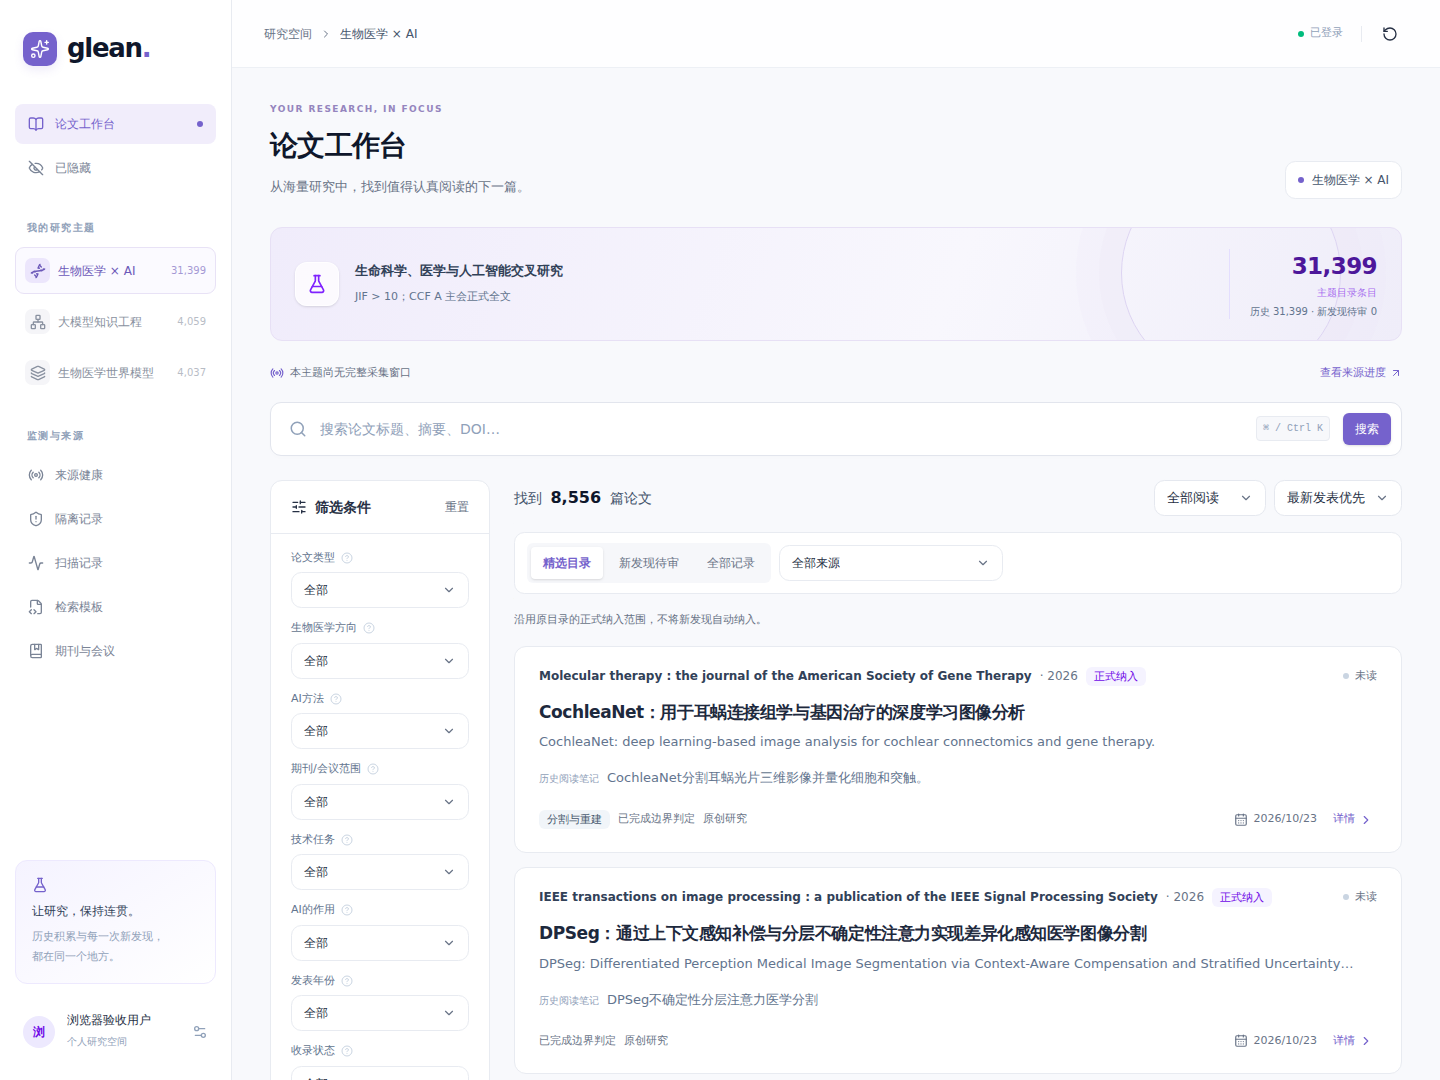
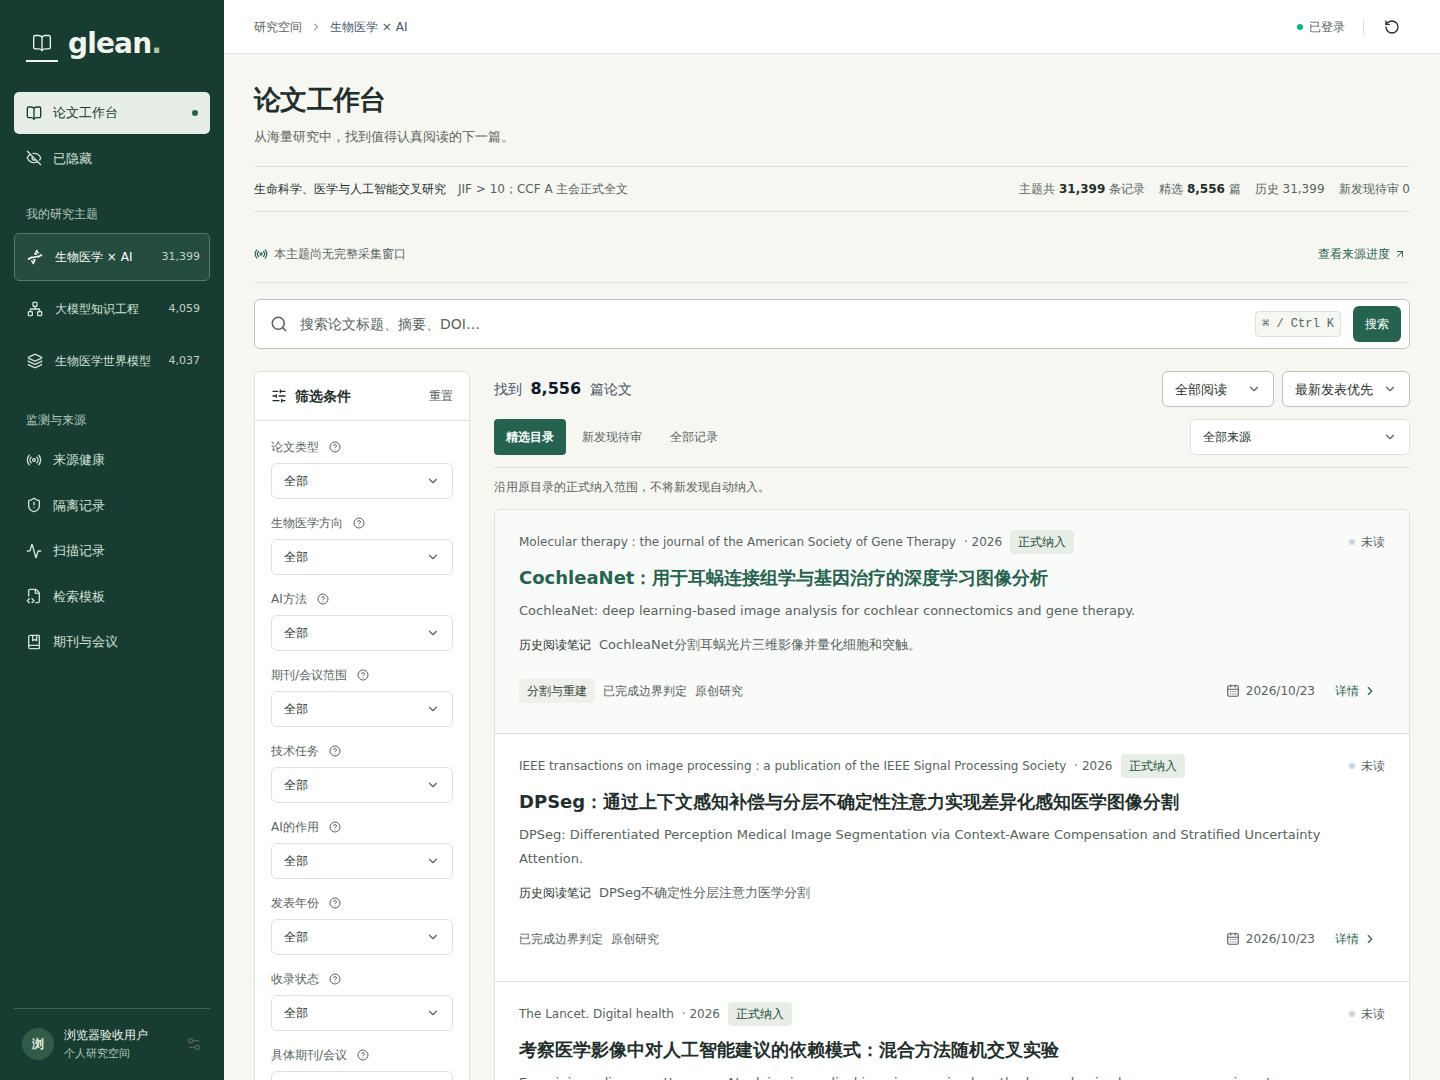
docs(web): refresh verified redesign screenshots and design guide

diff --git a/web/README.md b/web/README.md
@@ -2,19 +2,25 @@
 
 以中文阅读为优先的文献检索与研究工作台。基于 **React 19 + TypeScript + Vite**、**Tailwind CSS v4**、可编辑的 **shadcn/ui 开放源码组件与 Radix 基础组件**，配合 Lucide 图标和 TanStack Query 构建。
 
+## 界面设计方法
+
+本次重构选择 [Impeccable](https://github.com/pbakaus/impeccable) 的 Operate / Read 方法，而不是叠加两套设计工具。深色任务导航、紧凑的主题信息、连续题录列表和前置的原文入口共同服务于检索与阅读；认证、精确筛选、个人状态和科学证据逻辑保持不变。
+
+产品事实与交互边界见 [PRODUCT.md](PRODUCT.md)，视觉 token、响应式规则和方法版本见 [DESIGN.md](DESIGN.md)。本项目采用其设计指导，没有安装其运行时、浏览器扩展或 hooks，也不声称通过了其 CLI 检测。
+
 ## 运行界面
 
 以下截图来自真实运行的前端、Go API 和 PostgreSQL，使用已提交的历史文献数据，不是设计稿或模拟页面。
 
 ### 桌面端：论文工作台
 
-三个研究主题、中文优先的论文卡片、多维筛选、目录范围与个人阅读状态集中展示。截图中主题总量为 31,399 条，精选目录为 8,556 篇；两种统计口径不同。
+三个研究主题、中文优先的连续题录、多维筛选、目录范围与个人阅读状态集中展示。截图中主题总量为 31,399 条，精选目录为 8,556 篇；两种统计口径不同。
 
 ![桌面端论文工作台：主题导航、筛选条件与真实历史论文列表](docs/screenshots/desktop-catalog.png)
 
 ### 桌面端：论文详情
 
-详情抽屉将个人阅读状态、原始历史笔记与模型处理结果分开。尚未获取的摘要明确显示为空，不用历史笔记或模型输出冒充原文摘要。
+详情抽屉前置原文入口，将个人阅读状态、原始历史笔记与模型处理结果分开。尚未获取的摘要明确显示为空，不用历史笔记或模型输出冒充原文摘要。
 
 ![桌面端论文详情：阅读状态、摘要空状态与保留的历史阅读笔记](docs/screenshots/desktop-paper-detail.png)
 
@@ -24,7 +30,7 @@
 
 <img src="docs/screenshots/mobile-catalog.png" alt="手机端论文工作台：搜索、目录范围、筛选入口与论文卡片" width="360" />
 
-截图记录：2026-10-27，[提交 `4eff45b`](https://github.com/TeamSillyBees/glean/commit/4eff45b49b851a8275a3fe3ada37d7e263fc0789) 的 [GitHub Actions 运行 #17](https://github.com/TeamSillyBees/glean/actions/runs/40472376956)，来自 Chromium 桌面端与 Pixel 7 尺寸的移动端浏览器验收。图片为原始视口截图，仅更名复制；详细来源见[截图说明](docs/screenshots/README.md)。该次历史库浏览器测试已通过；截图展示历史库界面，不代表实时采集验收结果，也不代表正式上线。LLM 调用仍为明确标识的 mock，历史笔记不是本次模型生成结果。
+截图记录：2026-10-27，[提交 `bd20fb4`](https://github.com/TeamSillyBees/glean/commit/bd20fb4a5be5cae300a1c8cf6f15cdfc07db5d2f) 的 [GitHub Actions 运行 40531139041](https://github.com/TeamSillyBees/glean/actions/runs/40531139041)，来自 Chromium 桌面端与 Pixel 7 尺寸的移动端浏览器验收。图片为原始视口截图，仅更名复制；详细来源见[截图说明](docs/screenshots/README.md)。该次常规 CI 全部通过，另完成 320–1920px 七档目录布局检查；截图展示历史库界面，不代表实时采集验收结果，也不代表正式上线。LLM 调用仍为明确标识的 mock，历史笔记不是本次模型生成结果。
 
 ## 本地运行
 

diff --git a/web/docs/screenshots/README.md b/web/docs/screenshots/README.md
@@ -3,24 +3,25 @@
 这些 PNG 是真实 GitHub Actions 浏览器验收的原始视口截图，只做更名复制，未生成、重绘、裁切或修改界面内容。
 
 - 拍摄日期：2026-10-27（UTC）。
-- 代码：[4eff45b49b851a8275a3fe3ada37d7e263fc0789](https://github.com/TeamSillyBees/glean/commit/4eff45b49b851a8275a3fe3ada37d7e263fc0789)。
-- CI：[运行 #17 / 40472376956](https://github.com/TeamSillyBees/glean/actions/runs/40472376956)。
-- artifact：`glean-browser-4eff45b49b851a8275a3fe3ada37d7e263fc0789`（ID `12718837925`）。CI artifact 有保留期限，因此将精选 PNG 随源码保存。
+- 代码：[bd20fb4a5be5cae300a1c8cf6f15cdfc07db5d2f](https://github.com/TeamSillyBees/glean/commit/bd20fb4a5be5cae300a1c8cf6f15cdfc07db5d2f)。
+- CI：[运行 40531139041](https://github.com/TeamSillyBees/glean/actions/runs/40531139041)。
+- artifact：`glean-browser-bd20fb4a5be5cae300a1c8cf6f15cdfc07db5d2f`（ID `12746422482`）。CI artifact 有保留期限，因此将精选 PNG 随源码保存。
 - 测试：`web/e2e/catalog.spec.ts`，真实 Go HTTP API、隔离 PostgreSQL、完整历史数据导入与临时验收账号。
 - 浏览器：Playwright 的 Chromium；桌面视口 `1440 × 1080`，手机采用 Pixel 7 设备参数（仿真视口，不是真机拍摄）。
 
 | 当前文件                   | artifact 中的原文件名               | SHA-256                                                            |
 | -------------------------- | ----------------------------------- | ------------------------------------------------------------------ |
[6 lines of base64/hex data omitted]
 
 原文件位于 artifact 的 `test-results/historical/catalog-real-historical-ca-61866-state-and-account-isolation-desktop/` 或对应的 `-mobile/` 目录。
 
 ## 证据边界
 
 - 该次桌面和手机历史库验收已通过；Go/PostgreSQL、前端及容器任务也已通过。
-- 后续 Europe PMC 实时请求返回 HTTP 503，实时记录的浏览器验收未执行，整轮 CI 仍为失败。
+- 整轮常规 CI 通过；目录额外验证 320、375、768、1024、1280、1440、1920px 的布局边界。
+- 常规 CI 不访问外部文献来源；独立手动实时验收未在此轮触发，不混入通过范围。
 - 页面数据是历史文献，不是模拟论文；LLM 调用仍为 mock，截图不证明单篇论文经过重新科学审核。
 - 截图显示隔离测试环境，不代表已正式部署；缺失摘要等真实空状态予以保留。
 - 已逐图查看，所选画面不包含密码、token、请求头或认证存储；显示的“浏览器验收用户”为临时测试账号名称。
